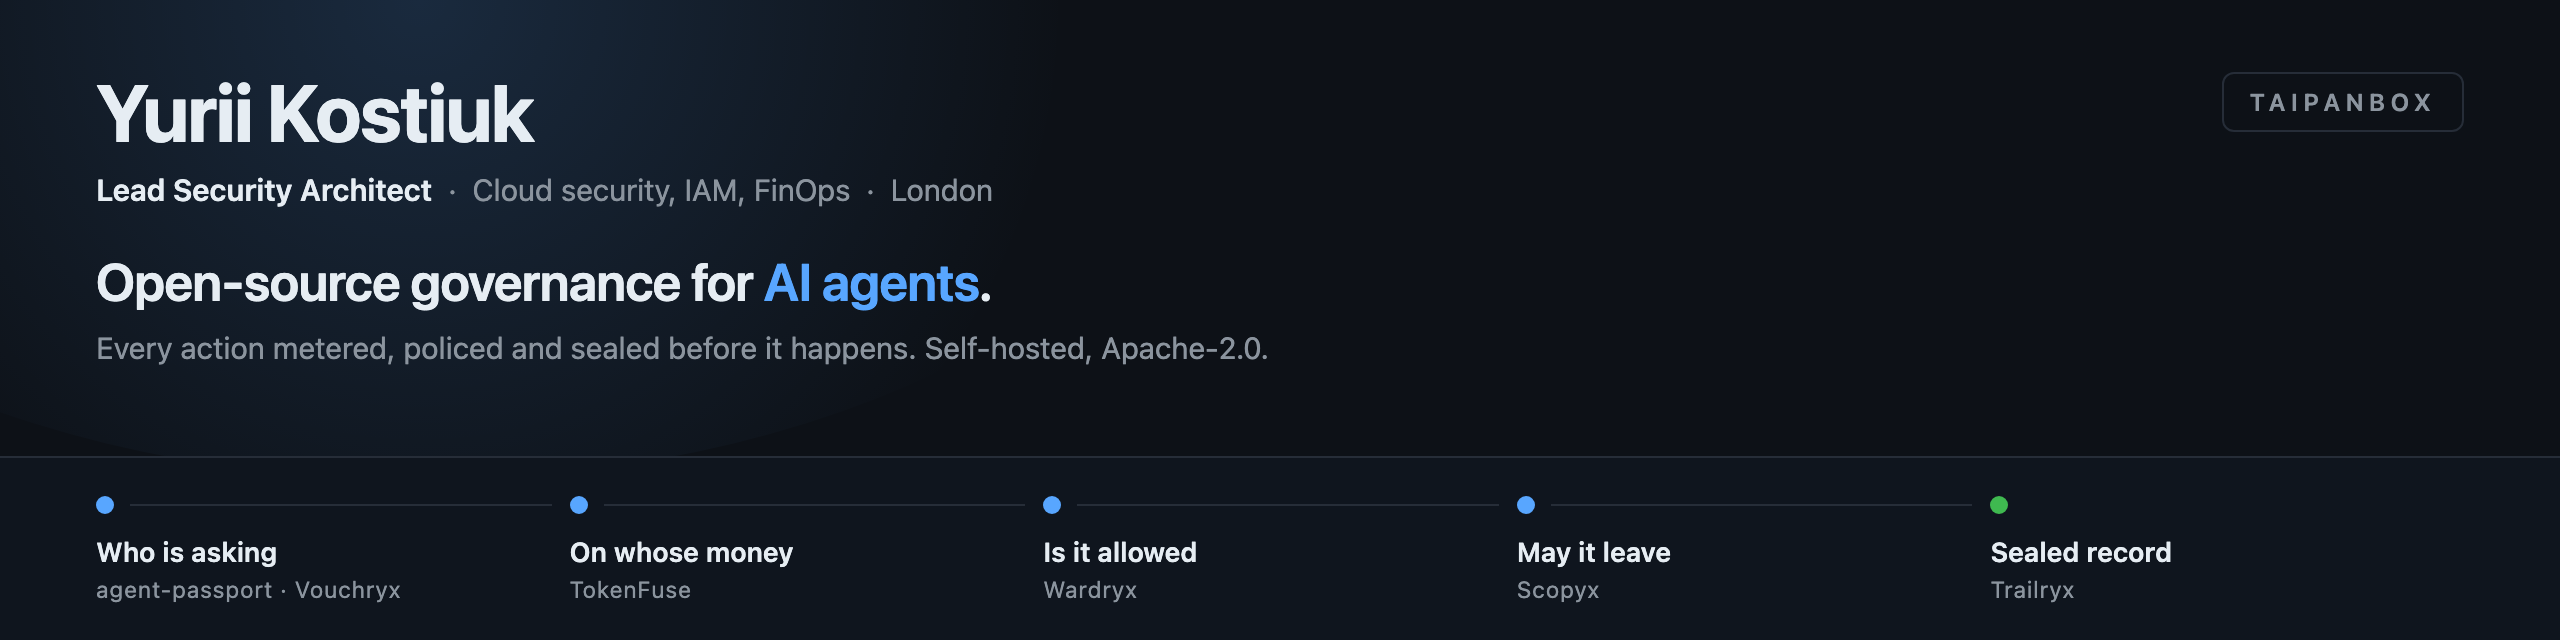
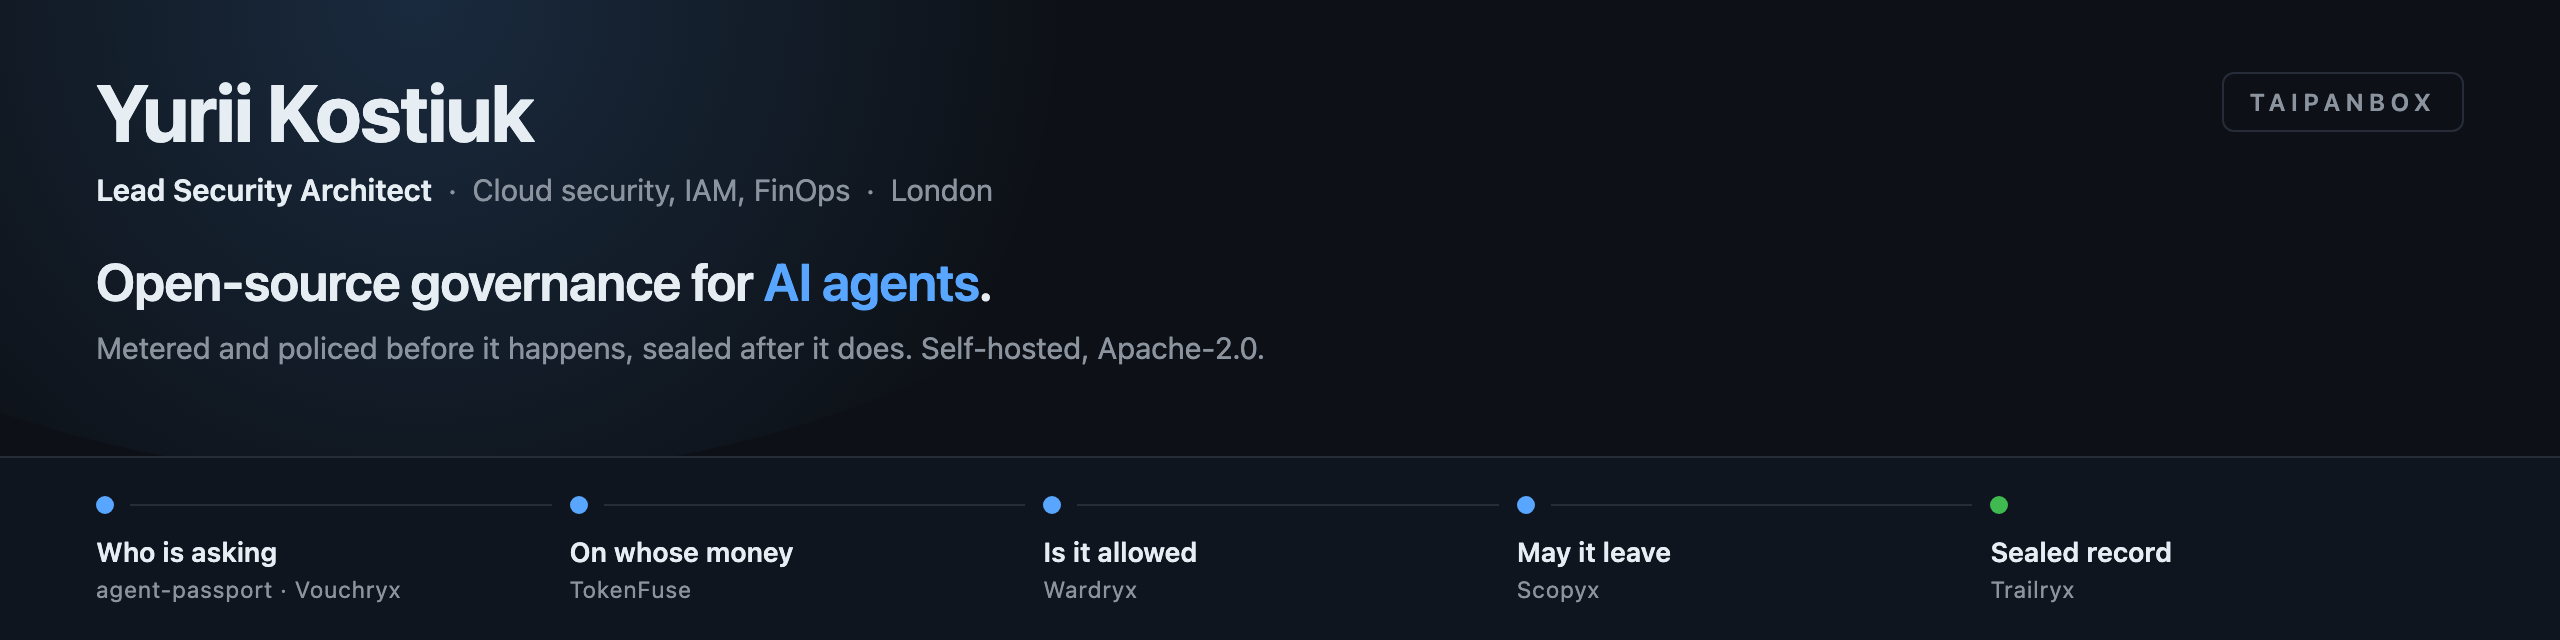
profile: four corrections from a second, independent read
Re-checked every claim on the card against its source rather than against my
own earlier reading, and four did not survive.

The banner said every action is "metered, policed and sealed before it
happens". Sealing is what happens after: the record is written once the
action has run or been refused. Now "metered and policed before it happens,
sealed after it does".

openwrt-mcp was described as if it were this profile's project. It is an
upstream project I forked and contributed an OpenWrt 25.12 package to;
hermes-openwrt is the one that is mine. The line now says so.

"Every number published on it-rat.com carries the command that measures it"
overstated the site's own invariant, which is scoped to the figures on the
service pages and enforced by refusing a publish that disagrees with
numbers.json. The line now says exactly that.

"Three of the services above ended up in Rust" was ambiguous with taipan in
the same table; the three are now named.

Changed region(s): [[0.0312, 0.5312, 0.5, 0.5625]]

diff --git a/README.md b/README.md
@@ -73,7 +73,7 @@ Thirteen services stay compatible because three small things are shared and gate
 - [**PROVEN.md**](https://github.com/TAIPANBOX/estate-gates/blob/main/PROVEN.md) records what has actually been executed: the date, the machine, and the artifact you can open. Runs that have not happened are listed too, with the gap named.
 - The same stack has been brought up on **Hetzner, AWS and GCP**, and the traps that cost us the nights are written down in [stack-k8s](https://github.com/TAIPANBOX/stack-k8s) rather than quietly fixed.
 - [**game-day-on-bedrock**](https://github.com/TAIPANBOX/game-day-on-bedrock) rehearses three Amazon Bedrock faults as a CI job, so the exit code is the whole result.
-- Every number published on [it-rat.com](https://it-rat.com/what-is-proven.html) carries the command that measures it, and a tool that says when the page has fallen behind the repository.
+- Each figure on the [it-rat.com](https://it-rat.com/what-is-proven.html) service pages names the command that measures it and the date it was last run, and a publish whose pages disagree with that ledger is refused.
 
 Tagged releases: [![tokenfuse](https://img.shields.io/github/v/release/TAIPANBOX/tokenfuse?style=flat-square&label=tokenfuse&color=1f6feb)](https://github.com/TAIPANBOX/tokenfuse/releases) [![trailryx](https://img.shields.io/github/v/release/TAIPANBOX/trailryx?style=flat-square&label=trailryx&color=1f6feb)](https://github.com/TAIPANBOX/trailryx/releases) [![engram](https://img.shields.io/github/v/release/TAIPANBOX/engram?style=flat-square&label=engram&color=1f6feb)](https://github.com/TAIPANBOX/engram/releases) [![idryx](https://img.shields.io/github/v/release/TAIPANBOX/idryx?style=flat-square&label=idryx&color=1f6feb)](https://github.com/TAIPANBOX/idryx/releases) [![mockryx](https://img.shields.io/github/v/release/TAIPANBOX/mockryx?style=flat-square&label=mockryx&color=1f6feb)](https://github.com/TAIPANBOX/mockryx/releases) [![qryx](https://img.shields.io/github/v/release/TAIPANBOX/qryx?style=flat-square&label=qryx&color=1f6feb)](https://github.com/TAIPANBOX/qryx/releases) [![agent-stack-go](https://img.shields.io/github/v/release/TAIPANBOX/agent-stack-go?style=flat-square&label=agent-stack-go&color=1f6feb)](https://github.com/TAIPANBOX/agent-stack-go/releases) [![terraform-provider-taipan](https://img.shields.io/github/v/release/TAIPANBOX/terraform-provider-taipan?style=flat-square&label=terraform-provider&color=1f6feb)](https://github.com/TAIPANBOX/terraform-provider-taipan/releases)
 
@@ -84,7 +84,7 @@ Tagged releases: [![tokenfuse](https://img.shields.io/github/v/release/TAIPANBOX
 
 <br>
 
-- [**openwrt-mcp**](https://github.com/TAIPANBOX/openwrt-mcp) and [**hermes-openwrt**](https://github.com/TAIPANBOX/hermes-openwrt) put an MCP server on a home router: six tools over ubus, standing-policy authorisation, and config changes with an armed rollback timer.
+- [**hermes-openwrt**](https://github.com/TAIPANBOX/hermes-openwrt) runs Hermes Agent as a native OpenWrt package: apk, procd, UCI, no Docker and no chroot. Its neighbour [**openwrt-mcp**](https://github.com/TAIPANBOX/openwrt-mcp) is upstream's MCP server on the router, six tools over ubus with an armed rollback timer; I contributed its OpenWrt 25.12 package.
 - [**telegram-mcp-claude**](https://github.com/TAIPANBOX/telegram-mcp-claude) gives an assistant real Telegram tools: read, send, edit, pin, react, files.
 - [**TokenFuse Pocket**](https://github.com/TAIPANBOX/tokenfuse-mobile) is the kill switch on a device the agent's host never touches. A side project, signed on-device, and not wired into the stack yet.
 - [**sphere-ios**](https://github.com/TAIPANBOX/sphere-ios) is a personal one: twelve life spheres, on-device memory, SwiftUI.
@@ -93,6 +93,6 @@ Tagged releases: [![tokenfuse](https://img.shields.io/github/v/release/TAIPANBOX
 
 ### Say hello
 
-Ask me about **Go, Rust, Kubernetes, cloud IAM and FinOps**, and about what actually breaks when an agent gets an API key. I am learning applied cryptography, which is how three of the services above ended up in Rust, and I am always interested in hard problems in agent security and governance.
+Ask me about **Go, Rust, Kubernetes, cloud IAM and FinOps**, and about what actually breaks when an agent gets an API key. I am learning applied cryptography, which is why TokenFuse, Trailryx and Genaryx are Rust, and I am always interested in hard problems in agent security and governance.
 
 **[yukosemail@gmail.com](mailto:yukosemail@gmail.com)** &nbsp;·&nbsp; **[LinkedIn](https://www.linkedin.com/in/yurii-kostiuk-778900ab/)** &nbsp;·&nbsp; **[X](https://twitter.com/yukostiuk)** &nbsp;·&nbsp; London, UK
